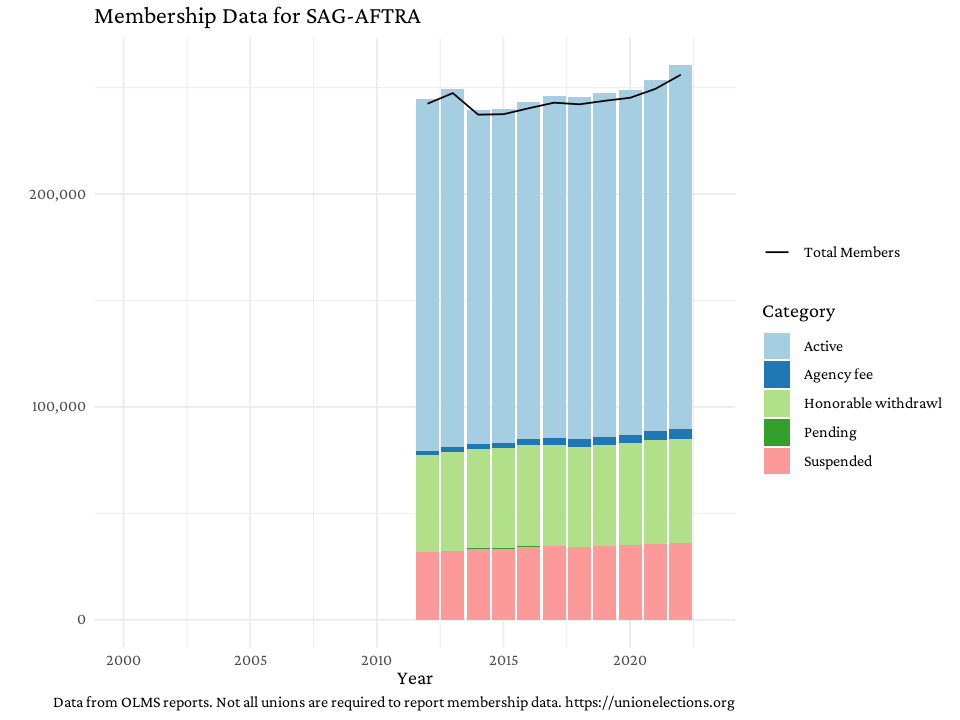
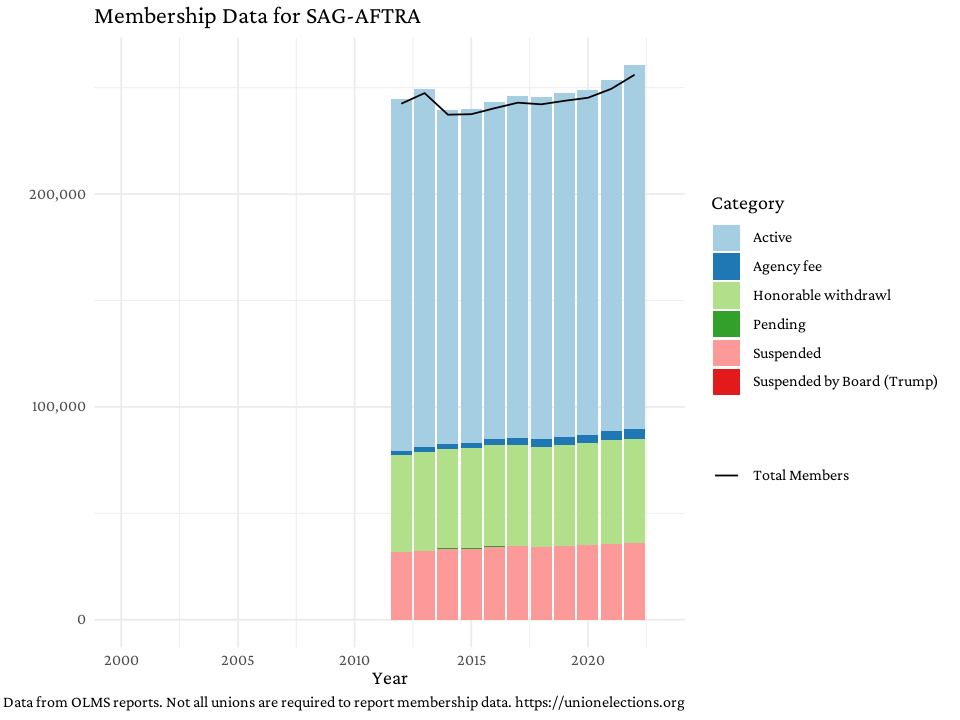
trump to sag-aftra

Changed region(s): [[0.4062, 0.0917, 0.9688, 0.8861], [0.0, 0.8861, 0.75, 1.0], [0.8438, 0.3361, 0.9375, 0.3667]]

diff --git a/content/tables/union/SAG-AFTRA_membership.html b/content/tables/union/SAG-AFTRA_membership.html
@@ -8,6 +8,7 @@
    <th style="text-align:left;"> Suspended </th>
    <th style="text-align:left;"> Pending </th>
    <th style="text-align:left;"> Honorable withdrawl </th>
+   <th style="text-align:left;"> Suspended by Board (Trump) </th>
   </tr>
  </thead>
 <tbody>
@@ -19,6 +20,7 @@
    <td style="text-align:left;"> 31,832 </td>
    <td style="text-align:left;"> 9 </td>
    <td style="text-align:left;"> 45,394 </td>
+   <td style="text-align:left;"> 0 </td>
   </tr>
   <tr>
    <td style="text-align:left;"> 2013 </td>
@@ -28,6 +30,7 @@
    <td style="text-align:left;"> 32,445 </td>
    <td style="text-align:left;"> 4 </td>
    <td style="text-align:left;"> 46,430 </td>
+   <td style="text-align:left;"> 0 </td>
   </tr>
   <tr>
    <td style="text-align:left;"> 2014 </td>
@@ -37,6 +40,7 @@
    <td style="text-align:left;"> 33,422 </td>
    <td style="text-align:left;"> 84 </td>
    <td style="text-align:left;"> 46,934 </td>
+   <td style="text-align:left;"> 0 </td>
   </tr>
   <tr>
    <td style="text-align:left;"> 2015 </td>
@@ -46,6 +50,7 @@
    <td style="text-align:left;"> 33,422 </td>
    <td style="text-align:left;"> 182 </td>
    <td style="text-align:left;"> 47,114 </td>
+   <td style="text-align:left;"> 0 </td>
   </tr>
   <tr>
    <td style="text-align:left;"> 2016 </td>
@@ -55,6 +60,7 @@
    <td style="text-align:left;"> 34,378 </td>
    <td style="text-align:left;"> 46 </td>
    <td style="text-align:left;"> 47,463 </td>
+   <td style="text-align:left;"> 0 </td>
   </tr>
   <tr>
    <td style="text-align:left;"> 2017 </td>
@@ -64,6 +70,7 @@
    <td style="text-align:left;"> 34,511 </td>
    <td style="text-align:left;"> 62 </td>
    <td style="text-align:left;"> 47,623 </td>
+   <td style="text-align:left;"> 0 </td>
   </tr>
   <tr>
    <td style="text-align:left;"> 2018 </td>
@@ -73,6 +80,7 @@
    <td style="text-align:left;"> 34,118 </td>
    <td style="text-align:left;"> 41 </td>
    <td style="text-align:left;"> 47,176 </td>
+   <td style="text-align:left;"> 0 </td>
   </tr>
   <tr>
    <td style="text-align:left;"> 2019 </td>
@@ -82,6 +90,7 @@
    <td style="text-align:left;"> 34,605 </td>
    <td style="text-align:left;"> 40 </td>
    <td style="text-align:left;"> 47,553 </td>
+   <td style="text-align:left;"> 0 </td>
   </tr>
   <tr>
    <td style="text-align:left;"> 2020 </td>
@@ -91,6 +100,7 @@
    <td style="text-align:left;"> 35,045 </td>
    <td style="text-align:left;"> 14 </td>
    <td style="text-align:left;"> 47,871 </td>
+   <td style="text-align:left;"> 0 </td>
   </tr>
   <tr>
    <td style="text-align:left;"> 2021 </td>
@@ -100,6 +110,7 @@
    <td style="text-align:left;"> 35,740 </td>
    <td style="text-align:left;"> 24 </td>
    <td style="text-align:left;"> 48,603 </td>
+   <td style="text-align:left;"> 0 </td>
   </tr>
   <tr>
    <td style="text-align:left;"> 2022 </td>
@@ -109,6 +120,7 @@
    <td style="text-align:left;"> 35,930 </td>
    <td style="text-align:left;"> 28 </td>
    <td style="text-align:left;"> 48,999 </td>
+   <td style="text-align:left;"> 1 </td>
   </tr>
 </tbody>
 </table>
